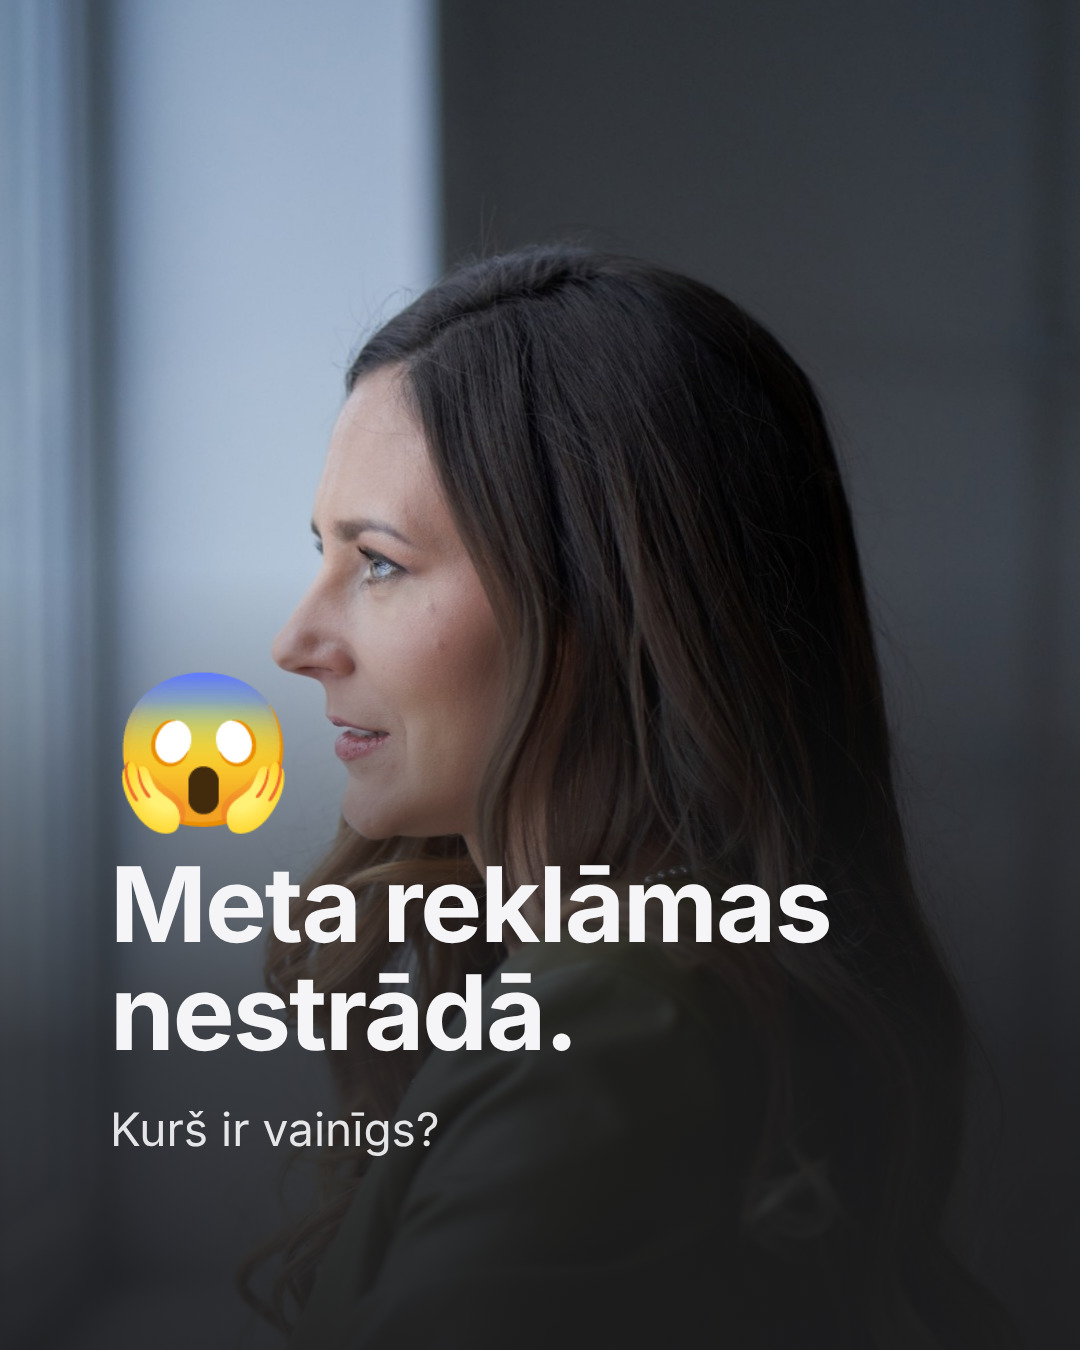
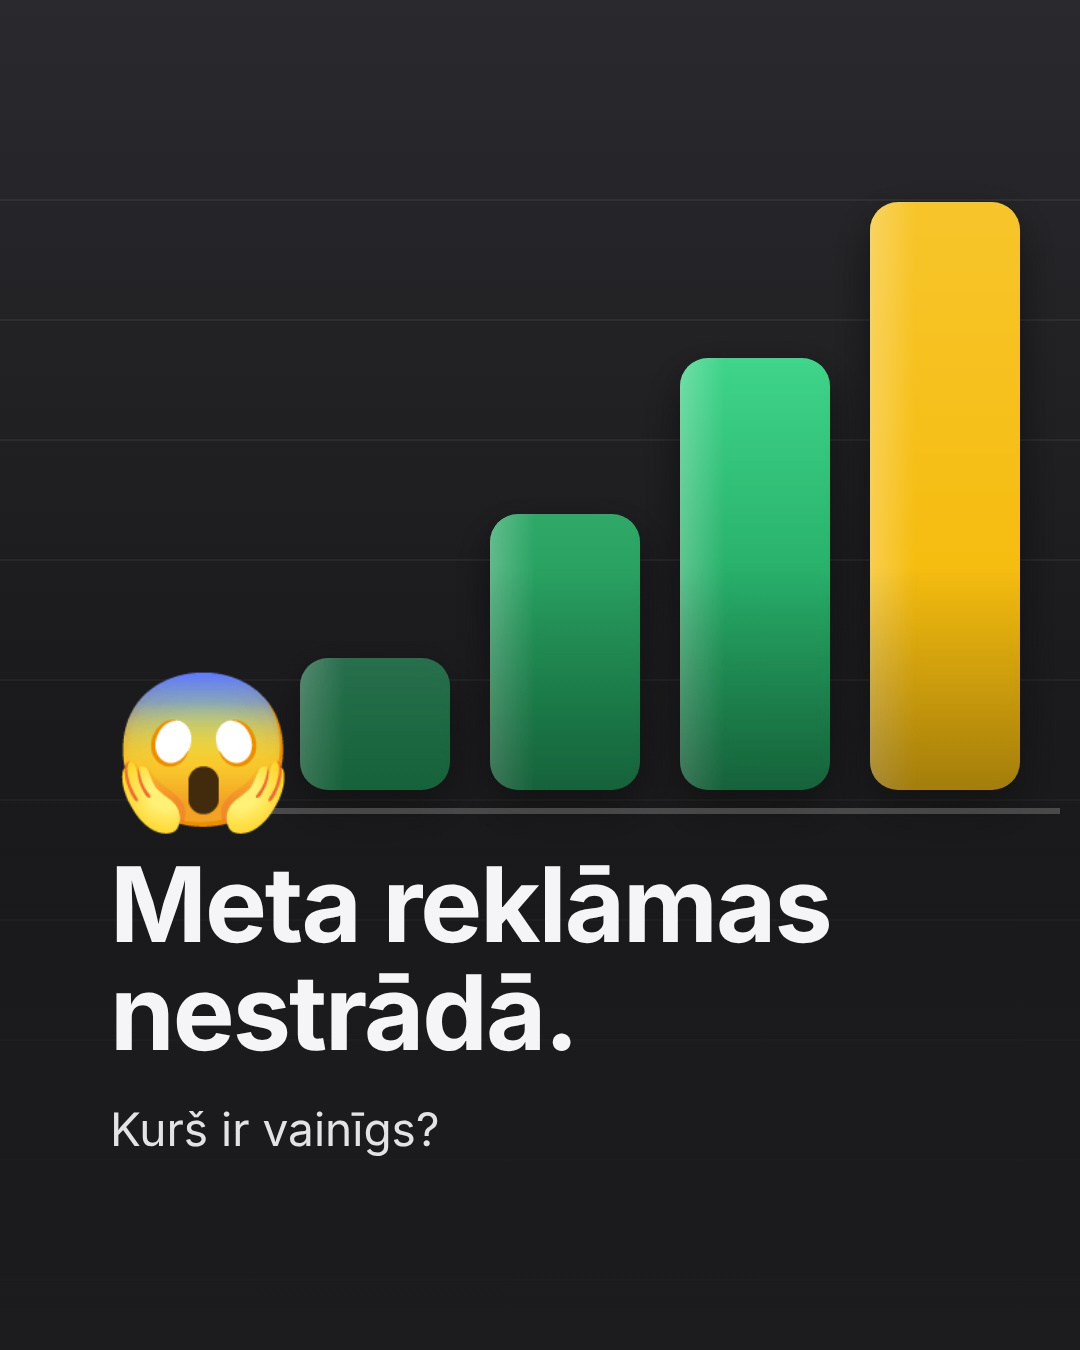
Meta carousel cover: text-free rising-bar infographic replaces photo
Claude-Session: https://claude.ai/code/session_01BfJAaEZY2EfD7nu2Y1Q1pB

diff --git a/brand/zimols/cover-infographic.js b/brand/zimols/cover-infographic.js
@@ -1,0 +1,25 @@
+// Abstract cover infographic (no text): dark ink background, rising green-to-yellow bars with a funnel-like baseline.
+const { chromium } = require('playwright');
+const out = process.argv[2];
+const html = `<!doctype html><html><body style="margin:0"><canvas id="c" width="1080" height="1350"></canvas><script>
+const c=document.getElementById('c'),x=c.getContext('2d');
+const W=1080,H=1350;
+const bg=x.createLinearGradient(0,0,0,H); bg.addColorStop(0,'#2a2a2e'); bg.addColorStop(1,'#0b0b0c');
+x.fillStyle=bg; x.fillRect(0,0,W,H);
+// subtle grid
+x.strokeStyle='rgba(255,255,255,0.05)'; x.lineWidth=2;
+for(let y=200;y<H;y+=120){x.beginPath();x.moveTo(0,y);x.lineTo(W,y);x.stroke();}
+const bars=[{h:0.22,c:['#2a7d55','#128C4A']},{h:0.46,c:['#2fa868','#128C4A']},{h:0.72,c:['#3fd58a','#128C4A']},{h:0.98,c:['#F7C52B','#F5B800']}];
+const baseY=790, bw=150, gap=40, x0=300;
+bars.forEach((b,i)=>{
+  const bx=x0+i*(bw+gap), bh=b.h*600, by=baseY-bh;
+  x.save(); x.shadowColor='rgba(0,0,0,0.5)'; x.shadowBlur=40; x.shadowOffsetY=18;
+  const g=x.createLinearGradient(bx,by,bx,baseY); g.addColorStop(0,b.c[0]); g.addColorStop(1,b.c[1]);
+  x.fillStyle=g; x.beginPath(); x.roundRect(bx,by,bw,bh,28); x.fill(); x.restore();
+  // gloss
+  x.save(); x.beginPath(); x.roundRect(bx,by,bw,bh,28); x.clip(); const gl=x.createLinearGradient(bx,0,bx+bw,0); gl.addColorStop(0,'rgba(255,255,255,0.25)'); gl.addColorStop(0.3,'rgba(255,255,255,0)'); x.fillStyle=gl; x.fillRect(bx,by,bw,bh); x.restore();
+});
+// baseline
+x.fillStyle='rgba(255,255,255,0.35)'; x.fillRect(x0-40,baseY+18,4*bw+3*gap+80,6);
+</script></body></html>`;
+(async()=>{const b=await chromium.launch({args:['--no-sandbox']});const p=await b.newPage({viewport:{width:1080,height:1350}});await p.setContent(html,{waitUntil:'load'});await p.evaluate(()=>new Promise(r=>setTimeout(r,200)));await p.screenshot({path:out,type:'jpeg',quality:92});await b.close();console.log(out);})().catch(e=>{console.error(e);process.exit(1);});
